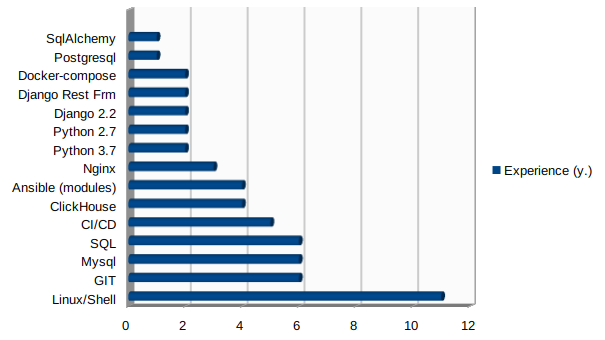
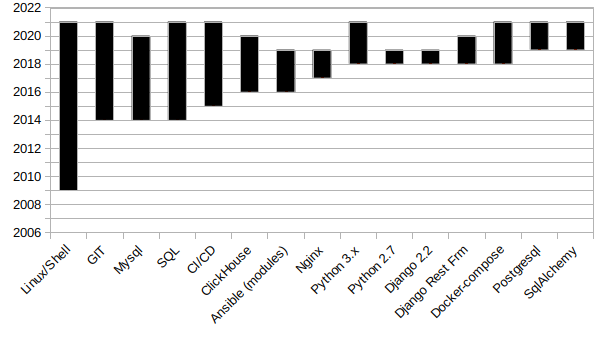
update

diff --git a/index.md b/index.md
@@ -2,7 +2,20 @@
 
 ## Andrey Kashirin
 
-Considered positions: **Agile Manger, Python Developer**
+Considered positions: **Engineering Manager, Team Lead**
+
+<!-- markdown-toc start - Don't edit this section. Run M-x markdown-toc-refresh-toc -->
+**Table of Contents**
+
+- [Andrey Kashirin](#andrey-kashirin)
+    - [Summary](#summary)
+    - [Employment history](#employment-history)
+    - [Education](#education)
+    - [Hobby](#hobby)
+    - [Contacts](#contacts)
+
+<!-- markdown-toc end -->
+
   
 -----------------------------------------------------------
 
@@ -31,48 +44,46 @@ help them to reach understanding.
 With my pet projects I'm touched the following:
   * ML, particularly reinforced learning (tensorforce)
   * bots for crypto-exchanges
-  * AWS: S3, EC2
   * [HomeAssistant](https://www.home-assistant.io/) sw and its customization
   * ELK stack
 
-![experience](/experience.png)
+Some vizualization of my experience...
+![experience vw1](/experience.png)
+[experience vw2](https://docs.google.com/spreadsheets/d/e/2PACX-1vSiVkC537m0jNazMRA9AXEH8LT9ofnPeMlPtrQ3mBpHLbYM6Uci6IrMboOI_x9_wc2FOGT3vX0PPBJ7/pubchart?oid=1095017382&format=interactive)
 
-I assume that it's more natural to read from the top to the bottom, thus
-I placed my experience in reversed order:
-
-### Education
-
--   2001 - 2006, [Mordovia State University named after N.P.
-    Ogarev (MSU)](https://www.mrsu.ru/en/), **Bachelor**, of
-    mathematics, applied mathematics and information science.
-
-I've got bachelor degree of applied math in the university where we
-studied a number of languages and math that could be applied to
-algorithms. Graduation work – “Development of CAD software for control
-[cnc machines](https://en.wikipedia.org/wiki/Numerical_control).”. An
-application which allows to import from AutoCAD and alter; or create
-from scratch 3D drawing and export it into machine’s native format to
-create a product.
 
 ### Employment history
 
--   June 2005 - June 2009 , [ZTE](https://www.zte.com.cn/global/) ; then
-    [Huawei](https://www.huawei.com/), **Technical Support Engineer**,
-    *. Moscow, Russia*
+-   November 2020 - Present. [Sphereinc partners](https://www.sphereinc.com), 
+    **Senior python developer**, *remote, Chicago, USA*
+    *B2B; outsourcing*
+    
+    Techology stack: AWS, Azure, Spark, Hive, etc.
 
-    B2B; Telco circuit switching core
+-   December 2019 - November 2020. [MTS IT](https://mts.ru), 
+    **Technical Manager**, *remote, Moscow, Russia*
+    *B2B; Telecom*
 
-In both companies I had similar duties: providing full-cycle deployment
-of 2/3G telecom CS core equipment. I've got valuable experience working
-in customer-facing environment; under high pressure and of course good
-knowledge of telecom standards plus business processes (huawei borrowed
-processes from IBM) and corporate culture.
+Our team was involved in two parallel projects. *Both projects were succesfully led to POC presentations.*
+The projects are: online subscribers geo-positioning and a troubleshooting system on the network.
 
--   September 2009 - July 2014 (4 years 11 months),
-    [Oracle](https://www.oracle.com/industries/communications/solutions.html),
-    **Professional service engineer**,* remote, Mulhouse, France*
+-   April 2019 – November 2019. [HyperQuant](https://hyperquant.net), 
+    **Team/Tech Lead**. *Moscow, Russia*
+    *B2C; Fin-tech.*
 
-    B2B; Telco probed passive monitoring equipment, service assurance.
+I manage development of several products for cryptocurrency trading. *I set up development process and launched few products in commercial.*
+
+-   April 2013 – February 2019. Rivasense; then renamed to [SysQual](http://sysqual.net/), 
+    **Engineering Manager**. *remote, Moscow, Russia*
+    *B2B; Telecom.*
+
+I was the first employee. I built and consequently managed engineering team (25 people). Development and delivery process.
+*$1M+ sales. Product won technical part of $10M+ tender in Tier I operator*
+Finally product was bought by large swiss competitor and buried(
+
+-   September 2009 - July 2014 (4 years 11 months). [Oracle](https://www.oracle.com/industries/communications/solutions.html),
+    **Professional service engineer**. *remote, Mulhouse, France*
+    *B2B; Telco probed passive monitoring equipment, service assurance*
 
 Here I continued dive into telecom. I worked with network monitoring
 system. I've deepen understanding how networks work (literally down to
@@ -81,50 +92,29 @@ image. Here I've got experience working in multicultural (although
 mainly western) environment having colleagues form the Europe and the
 US.
 
--   April 2013 – February 2019. Rivasense; then renamed to
-    [SysQual](http://sysqual.net/), **Development Lead**. *Moscow,
-    Russia*
+-   June 2005 - June 2009. [ZTE](https://www.zte.com.cn/global/); then [Huawei](https://www.huawei.com/), 
+    **Technical Support Engineer**, *Moscow, Russia*
 
-    B2B; Development of Telco probed passive monitoring equipment.
+    *B2B; Telco circuit switching core*
 
-This is my long-play. Considering negative experience with the system in
-Oracle we decided to develop our own from the scratch. Here I shared
-many roles as this startup grew up before my eyes. I started as business
-analyst, then added architecture, then database design and architecture
-and python backend development and finally devops). As company got
-larger I passed some of these roles to my new colleagues, but quite
-frequently I had to recall my duties to assist in difficult case.
-Management of the team of 23 members (12 developers), including 75%
-remote members. Each domain has its own language and technologies, but I
-list major: clickhouse, mysql, linux, nginx, ansible, systemd,
-openstack, vmware, ansi c, php, js, python, sql. I had to know each at
-basic level, because sometimes in case of rush I helped to make some
-patches. Product won a quite demanding tender in Tier I telco operator.
-Finally product was bought by large swiss competitor and buried(
+In both companies I had similar duties: providing full-cycle deployment
+of 2/3G telecom CS core equipment. I've got valuable experience working
+in customer-facing environment; under high pressure and of course good
+knowledge of telecom standards plus business processes (huawei borrowed
+processes from IBM) and corporate culture.
 
--   April 2019 – November 2019. [HyperQuant](https://hyperquant.net/), **BE
-    Team Lead**. *Moscow, Russia*
+### Education
 
-    *B2C; Fin-tech.*
+-   2001 - 2006. [Mordovia State University named after N.P. Ogarev (MSU)](https://www.mrsu.ru/en/), 
+    **Bachelor**, of mathematics, applied mathematics and information science.
 
-I manage development and delivery of several cryptocurrency trading
-products. Team consists of both office and remote developers. As far as
-it’s startup with limited budged – I have hands on experience with
-development. BackEnd is a bunch of services (not exposed to public) and
-API endpoints for web gui. All backend is written on python: django,
-django-rest. DBs are: ClickHouse and Postgres. We use CI/CD with:
-gitlab, github, docker and almost ready to jump into AWS. Of course this
-is relatively new industry for me and I had to learn a lot of things,
-but I like learning.
-
--   Devember 2019 - Present. [MTS IT](https://mts.ru), **Technical Manager**, *Moscow, Russia*
-
-    *B2B; Telecom*
-
-
-I lead a development team of 20+ people, consisting of specialists in various fields and methods of involvement in the team (staff, out-staff, outsource).
-We are engaged in the development of 2 parallel projects related to geo-positioning and the troubleshooting system on the network.
-Both systems are endowed with high performance and flexibility, including by the use of containers as a target platform. 
+I've got bachelor degree of applied math in the university where we
+studied a number of languages and math that could be applied to
+algorithms. Graduation work – “Development of CAD software for control
+[cnc machines](https://en.wikipedia.org/wiki/Numerical_control).”. An
+application which allows to import from AutoCAD and alter; or create
+from scratch 3D drawing and export it into machine’s native format to
+create a product.
 
 ### Hobby
 
